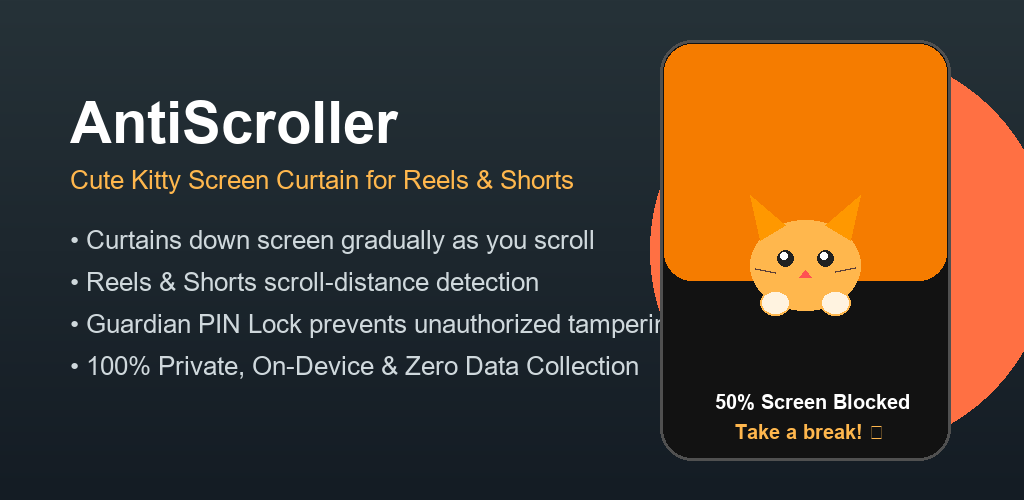
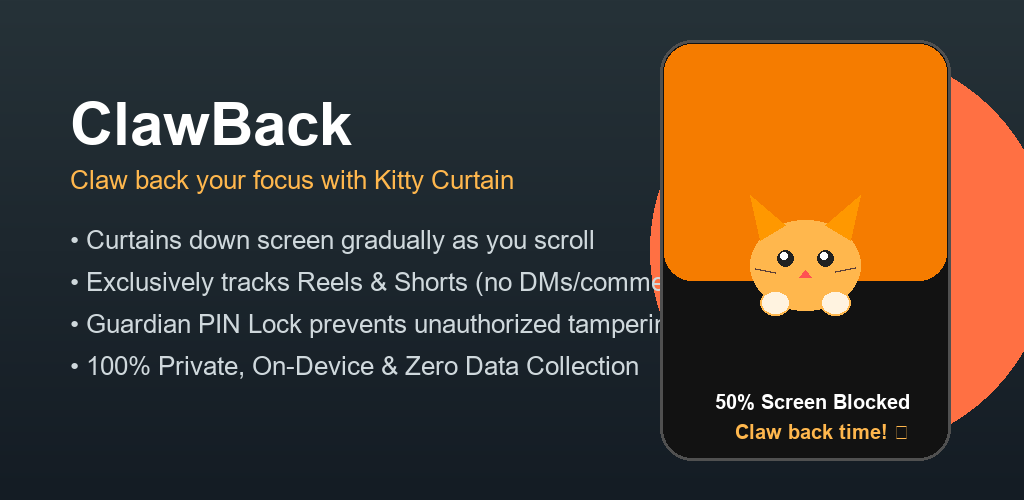
Rebrand app to ClawBack: update strings, layouts, feature graphic, and Play Store documentation

diff --git a/PRIVACY_POLICY.html b/PRIVACY_POLICY.html
@@ -3,7 +3,7 @@
 <head>
   <meta charset="UTF-8">
   <meta name="viewport" content="width=device-width, initial-scale=1.0">
-  <title>Privacy Policy - AntiScroller: Kitty Curtain</title>
+  <title>Privacy Policy - ClawBack: Kitty Screen Curtain</title>
   <style>
     body {
       font-family: -apple-system, BlinkMacSystemFont, "Segoe UI", Roboto, Helvetica, Arial, sans-serif;
@@ -48,20 +48,21 @@
 <body>
   <div class="card">
     <span class="badge">Zero Data Collection</span>
-    <h1>Privacy Policy for AntiScroller: Kitty Curtain</h1>
-    <p><strong>Effective Date:</strong> October 17, 2026</p>
+    <h1>Privacy Policy for ClawBack: Kitty Screen Curtain</h1>
+    <p><strong>Effective Date:</strong> October 19, 2026</p>
 
-    <p><strong>AntiScroller: Kitty Curtain</strong> ("AntiScroller", "we", "our") is designed as a digital wellbeing tool to help you break free from excessive doomscrolling. We respect your right to privacy above all else.</p>
+    <p><strong>ClawBack: Kitty Screen Curtain</strong> ("ClawBack", "we", "our") is designed as a digital wellbeing tool to help you claw back your time from compulsive doomscrolling. We respect your right to privacy above all else.</p>
 
     <div class="alert">
-      <strong>Core Privacy Commitment:</strong> AntiScroller does NOT collect, store, transmit, or share any personal information, keystrokes, messages, or device telemetry with any remote server or third party. The application runs 100% offline and locally on your device.
+      <strong>Core Privacy Commitment:</strong> ClawBack does NOT collect, store, transmit, or share any personal information, keystrokes, messages, or device telemetry with any remote server or third party. The application runs 100% offline and locally on your device.
     </div>
 
     <h2>1. Accessibility Service API Declaration (Google Play Policy Compliance)</h2>
-    <p>AntiScroller requests permission to use Android's <code>AccessibilityService</code> API exclusively to deliver its primary screen-curtain functionality:</p>
+    <p>ClawBack requests permission to use Android's <code>AccessibilityService</code> API exclusively to deliver its primary screen-curtain functionality:</p>
     <ul>
       <li><strong>Scroll Event Detection:</strong> Detects vertical scroll gestures specifically within designated short-form media applications (Instagram Reels and YouTube Shorts).</li>
       <li><strong>Real-Time Scroll Measurement:</strong> Computes the distance scrolled locally to calculate view count (1 full screen height = 1 short-form video viewed).</li>
+      <li><strong>Exclusions:</strong> Comments, YouTube long-form videos/Home feed, direct messages, and profile views are strictly ignored and never counted.</li>
       <li><strong>Zero Sensitive Data Capture:</strong> The service does NOT read passwords, keystrokes, text content, chat messages, credit card numbers, or any on-screen personal data.</li>
       <li><strong>No Network Transmission:</strong> The app possesses zero network permissions to communicate with servers. No accessibility telemetry leaves your phone.</li>
     </ul>
@@ -77,13 +78,13 @@
     <p>All app settings, selected kitty characters (Ginger, Midnight Tuxedo, etc.), daily scroll limits, and the hashed Guardian PIN are stored locally using Android <code>SharedPreferences</code>. Uninstalling the app completely purges all stored preferences.</p>
 
     <h2>4. Children's Privacy</h2>
-    <p>AntiScroller does not collect information from anyone, including children under 13. When used as parental control software, all configurations remain completely on the physical device under the parent or guardian's supervision.</p>
+    <p>ClawBack does not collect information from anyone, including children under 13. When used as parental control software, all configurations remain completely on the physical device under the parent or guardian's supervision.</p>
 
     <h2>5. Contact & Support</h2>
     <p>If you have questions regarding this Privacy Policy, please open an issue on our GitHub repository: <a href="https://github.com/raxblackwood/kitty-scroller" target="_blank" rel="noopener">https://github.com/raxblackwood/kitty-scroller</a>.</p>
   </div>
   <footer>
-    &copy; 2026 AntiScroller. All rights reserved.
+    &copy; 2026 ClawBack. All rights reserved.
   </footer>
 </body>
 </html>

diff --git a/app/src/main/java/com/antiscroller/kitty/service/KittyAccessibilityService.kt b/app/src/main/java/com/antiscroller/kitty/service/KittyAccessibilityService.kt
@@ -428,7 +428,8 @@ class KittyAccessibilityService : AccessibilityService() {
     private fun checkAndApplyUninstallProtection(event: AccessibilityEvent) {
         val rootNode = rootInActiveWindow ?: return
         try {
-            val textNodes = rootNode.findAccessibilityNodeInfosByText("AntiScroller")
+            val textNodes = rootNode.findAccessibilityNodeInfosByText("ClawBack")
+                .plus(rootNode.findAccessibilityNodeInfosByText("AntiScroller"))
             val pkgNodes = rootNode.findAccessibilityNodeInfosByText(packageName)
 
             if (textNodes.isNotEmpty() || pkgNodes.isNotEmpty()) {
@@ -458,7 +459,7 @@ class KittyAccessibilityService : AccessibilityService() {
                         mainHandler.post {
                             Toast.makeText(
                                 applicationContext,
-                                "🐾 Smart Friction: AntiScroller protects your focus! All your other apps remain fully accessible.",
+                                "🐾 Smart Friction: ClawBack protects your focus! All your other apps remain fully accessible.",
                                 Toast.LENGTH_LONG
                             ).show()
                         }

diff --git a/app/src/main/java/com/antiscroller/kitty/admin/KittyAdminReceiver.kt b/app/src/main/java/com/antiscroller/kitty/admin/KittyAdminReceiver.kt
@@ -17,7 +17,7 @@ class KittyAdminReceiver : DeviceAdminReceiver() {
         super.onEnabled(context, intent)
         Toast.makeText(
             context,
-            "AntiScroller Protection Enabled! Impulsive uninstall is now guarded.",
+            "ClawBack Protection Enabled! Impulsive uninstall is now guarded.",
             Toast.LENGTH_SHORT
         ).show()
     }
@@ -30,7 +30,7 @@ class KittyAdminReceiver : DeviceAdminReceiver() {
         super.onDisabled(context, intent)
         Toast.makeText(
             context,
-            "AntiScroller Protection Disabled.",
+            "ClawBack Protection Disabled.",
             Toast.LENGTH_SHORT
         ).show()
     }

diff --git a/app/src/main/java/com/antiscroller/kitty/MainActivity.kt b/app/src/main/java/com/antiscroller/kitty/MainActivity.kt
@@ -128,7 +128,7 @@ class MainActivity : AppCompatActivity() {
             startActivity(intent)
             Toast.makeText(
                 this,
-                "Find 'AntiScroller Kitty' under Downloaded Apps and turn it ON",
+                "Find 'ClawBack' under Downloaded Apps and turn it ON",
                 Toast.LENGTH_LONG
             ).show()
         }

diff --git a/PLAY_STORE_LISTING.md b/PLAY_STORE_LISTING.md
@@ -1,5 +1,5 @@
 # Google Play Store Listing & Submission Guide
-**App Name:** AntiScroller: Kitty Curtain  
+**App Name:** ClawBack: Kitty Screen Curtain  
 **Package ID:** `com.antiscroller.kitty`  
 **Version:** 1.0.0 (Version Code: 1)  
 
@@ -8,37 +8,37 @@
 ## 1. Store Metadata
 
 ### Title (max 30 characters)
-`AntiScroller: Kitty Curtain`
+`ClawBack: Kitty Screen Curtain`
 
 ### Short Description (max 80 characters)
-`Tame doomscrolling on Reels & Shorts with a cute, gradual kitty screen curtain!`
+`Claw back your focus on Reels & Shorts with a cute, gradual kitty screen curtain!`
 
 ### Full Description (up to 4,000 characters)
 ```text
 Tired of losing hours to endless scrolling on Instagram Reels and YouTube Shorts? 🐾
 
-AntiScroller: Kitty Curtain is the gentle, playful, yet firmly effective digital wellbeing tool that keeps your screen time in check. Instead of jarring locks or frustrating timers, AntiScroller introduces a cute kitty that slowly drops down a screen curtain as you scroll!
+ClawBack: Kitty Screen Curtain is the gentle, playful, yet firmly effective digital wellbeing companion that helps you claw back your focus and screen time. Instead of jarring locks or frustrating timers, ClawBack introduces a cute kitty that slowly drops down a screen curtain as you scroll!
 
 🐾 HOW IT WORKS
 1. Choose Your Daily Limit: Pick how many Reels or Shorts you want to allow yourself each day (e.g., 10, 20, 50, or custom).
-2. Browse Mindfully: As you scroll through Instagram Reels or YouTube Shorts, AntiScroller accurately measures your scroll distance (1 screen height = 1 Reel).
+2. Browse Mindfully: As you scroll through Instagram Reels or YouTube Shorts, ClawBack accurately measures your scroll distance (1 screen height = 1 Reel).
 3. The Curtain Descends: The more you scroll, the further your cute kitty curtain lowers from the top of your screen, progressively covering your view.
 4. Take a Break: Once you reach 100% of your limit, the screen is covered—signaling it's time to put your phone down and get back to your life!
 5. Daily Midnight Reset: Your counter resets automatically every night at midnight so you start fresh each morning.
 
 ✨ KEY FEATURES
-• Accurate Scroll Distance Tracking: Specifically monitors vertical scroll depth in Instagram Reels and YouTube Shorts without false triggers when reading DMs or switching tabs.
+• Accurate Scroll Distance Tracking: Specifically monitors vertical scroll depth in Instagram Reels and YouTube Shorts without false triggers when reading DMs, reading comments, or watching long YouTube videos.
 • Multiple Kitty Themes: Choose between Ginger Cat 🐱, Midnight Black Tuxedo 🐈⬛, Calico, and Siamese!
 • Guardian / Parental PIN Lock: Perfect for parents, friends, or accountability partners. Lock your limit settings and prevent unauthorized disabling or uninstallation without the PIN.
-• 100% Private & Offline: AntiScroller runs completely on your device. Zero internet requests, zero tracking, zero data collection.
+• 100% Private & Offline: ClawBack runs completely on your device. Zero internet requests, zero tracking, zero data collection.
 
 🔒 ACCESSIBILITY SERVICE API DISCLOSURE
-AntiScroller requires Android's AccessibilityService API solely for its core functionality:
+ClawBack requires Android's AccessibilityService API solely for its core functionality:
 • To detect when Instagram or YouTube is open in the foreground.
-• To calculate vertical scroll displacement within short-form video feeds.
-The AccessibilityService is NOT used to read personal messages, keystrokes, passwords, or device content. All processing occurs strictly on your device in real-time, and no data is ever transmitted or stored remotely.
+• To calculate vertical scroll displacement within short-form video feeds (Reels & Shorts).
+The AccessibilityService is NOT used to read personal messages, comments, keystrokes, passwords, or device content. All processing occurs strictly on your device in real-time, and no data is ever transmitted or stored remotely.
 
-Take control of your attention today with AntiScroller: Kitty Curtain! 🐾
+Claw back your focus and time today with ClawBack: Kitty Screen Curtain! 🐾
 ```
 
 ---
@@ -63,7 +63,7 @@ Google strictly requires answers for apps using `AccessibilityService`. Copy & p
 
 #### Question: Which core features of your app require the AccessibilityService API?
 > **Answer:**  
-> "AntiScroller is a digital wellbeing and screen-time management application designed to curb compulsive doomscrolling on short-form video platforms (Instagram Reels and YouTube Shorts). The AccessibilityService API is required to observe vertical scroll gestures and compute scroll distance on-screen in real time so the app can visually lower a screen-curtain overlay proportionately to the user's configured limits."
+> "ClawBack is a digital wellbeing and screen-time management application designed to curb compulsive doomscrolling on short-form video platforms (Instagram Reels and YouTube Shorts). The AccessibilityService API is required to observe vertical scroll gestures and compute scroll distance on-screen in real time so the app can visually lower a screen-curtain overlay proportionately to the user's configured limits."
 
 #### Question: Why is an alternative API not sufficient?
 > **Answer:**  
@@ -74,12 +74,12 @@ Google strictly requires answers for apps using `AccessibilityService`. Copy & p
 
 #### Question: Instructions for App Reviewers / Google Play Review Team:
 ```text
-Instructions for testing AntiScroller: Kitty Curtain:
-1. Open AntiScroller.
-2. Grant "Display Over Other Apps" permission and enable the "AntiScroller Kitty Service" in Accessibility Settings when prompted.
+Instructions for testing ClawBack: Kitty Screen Curtain:
+1. Open ClawBack.
+2. Grant "Display Over Other Apps" permission and enable the "ClawBack" service in Accessibility Settings when prompted.
 3. Set the daily Reel limit slider to a low number (e.g. 5 reels) for quick verification.
 4. Open Instagram or YouTube and scroll through Reels/Shorts.
-5. Notice the Kitty Curtain smoothly descend from the top of the display proportionally with each reel scrolled.
+5. Notice the Kitty Curtain smoothly descend from the top of the display proportionally with each reel scrolled (comments and YouTube long videos are excluded).
 6. Optional Guardian Lock test: Set a 4-digit PIN in Settings to see security locking in action.
 ```
 
@@ -96,9 +96,9 @@ Host `PRIVACY_POLICY.html` on GitHub Pages or paste the raw GitHub link:
 
 | Asset | Location in Repo | Specifications |
 |---|---|---|
-| **Production App Bundle** | `dist/AntiScroller-v1.0.0-release.aab` | Signed AAB (Upload to Play Console Release track) |
-| **Shareable Test APK** | `dist/AntiScroller-v1.0.0-release.apk` | Signed APK (Direct installation / Sideloading) |
+| **Production App Bundle** | `dist/ClawBack-v1.0.0-release.aab` | Signed AAB (Upload to Play Console Release track) |
+| **Shareable Test APK** | `dist/ClawBack-v1.0.0-release.apk` | Signed APK (Direct installation / Sideloading) |
 | **App Icon** | `play_store_assets/icon_512.png` | 512 x 512 PNG, 32-bit color with alpha |
-| **Feature Graphic** | `play_store_assets/feature_graphic_1024x500.png` | 1024 x 500 PNG |
+| **Feature Graphic** | `play_store_assets/feature_graphic_1024x500.png` | 1024 x 500 PNG with ClawBack branding |
 | **Privacy Policy** | `PRIVACY_POLICY.md` & `PRIVACY_POLICY.html` | Compliant with Google Accessibility Disclosures |
 | **Keystore File** | `keystore/release.jks` | Keystore credentials in `keystore/KEYSTORE_INFO.txt` |

diff --git a/PRIVACY_POLICY.md b/PRIVACY_POLICY.md
@@ -1,28 +1,29 @@
-# Privacy Policy for AntiScroller: Kitty Curtain
+# Privacy Policy for ClawBack: Kitty Screen Curtain
 
-**Last updated:** October 17, 2026
+**Last updated:** October 19, 2026
 
-**AntiScroller: Kitty Curtain** ("AntiScroller", "we", "our", or "the app") is committed to protecting your privacy. This Privacy Policy outlines our strict privacy practices, explains the permissions our Android application requests, and details how user information is handled.
+**ClawBack: Kitty Screen Curtain** ("ClawBack", "we", "our", or "the app") is committed to protecting your privacy. This Privacy Policy outlines our strict privacy practices, explains the permissions our Android application requests, and details how user information is handled.
 
 ---
 
 ### Summary: Zero Data Collection
-**AntiScroller does NOT collect, store, transmit, or share any personal data, usage data, device identifiers, or analytics with any third party or remote server.** The application runs 100% locally and offline on your device.
+**ClawBack does NOT collect, store, transmit, or share any personal data, usage data, device identifiers, or analytics with any third party or remote server.** The application runs 100% locally and offline on your device.
 
 ---
 
 ### Accessibility Service API Disclosure (Google Play Compliance)
 
-AntiScroller uses Android's `AccessibilityService` API solely to deliver its core digital wellbeing functionality.
+ClawBack uses Android's `AccessibilityService` API solely to deliver its core digital wellbeing functionality.
 
-#### 1. Why AntiScroller Requires the Accessibility Service:
-AntiScroller is designed to curb excessive short-form video consumption ("doomscrolling") on targeted apps (specifically Instagram Reels and YouTube Shorts). The Accessibility Service allows the app to detect:
+#### 1. Why ClawBack Requires the Accessibility Service:
+ClawBack is designed to curb excessive short-form video consumption ("doomscrolling") on targeted apps (specifically Instagram Reels and YouTube Shorts). The Accessibility Service allows the app to detect:
 - When a monitored target app (Instagram or YouTube) is running in the foreground.
-- When vertical scroll events occur within short-form feed containers.
+- When vertical scroll events occur within short-form feed containers (Instagram Reels and YouTube Shorts).
 
 #### 2. How the Data is Used:
 - Scroll events are processed **locally in real-time** to compute vertical scroll displacement (e.g., counting reels viewed, where 1 reel corresponds to 1 screen-height of scrolling).
 - When scrolling exceeds your selected threshold, the app triggers a visual curtain overlay to remind you to take a break.
+- Scrolling comments, long-form YouTube videos, the YouTube Home feed, direct messages, and profile pages are strictly ignored and not counted.
 
 #### 3. What We Do NOT Do:
 - **No text, messages, or keystrokes are read, monitored, or saved.**
@@ -53,12 +54,12 @@ AntiScroller is designed to curb excessive short-form video consumption ("doomsc
 ---
 
 ### Third-Party Services
-AntiScroller does **not** include any third-party advertising SDKs, tracking libraries, cloud analytics (such as Google Analytics or Firebase), or external telemetry frameworks.
+ClawBack does **not** include any third-party advertising SDKs, tracking libraries, cloud analytics (such as Google Analytics or Firebase), or external telemetry frameworks.
 
 ---
 
 ### Children's Privacy
-AntiScroller does not collect information from anyone, including children under the age of 13. When used with the Guardian PIN feature, parents have full control over the application settings and limits on their child's device.
+ClawBack does not collect information from anyone, including children under the age of 13. When used with the Guardian PIN feature, parents have full control over the application settings and limits on their child's device.
 
 ---
 
@@ -68,5 +69,5 @@ If we update this Privacy Policy, the revised version will be published here wit
 ---
 
 ### Contact Us
-If you have questions, feedback, or concerns regarding this Privacy Policy or AntiScroller, you can contact us via our GitHub repository:  
+If you have questions, feedback, or concerns regarding this Privacy Policy or ClawBack, you can contact us via our GitHub repository:  
 [https://github.com/raxblackwood/kitty-scroller](https://github.com/raxblackwood/kitty-scroller)
